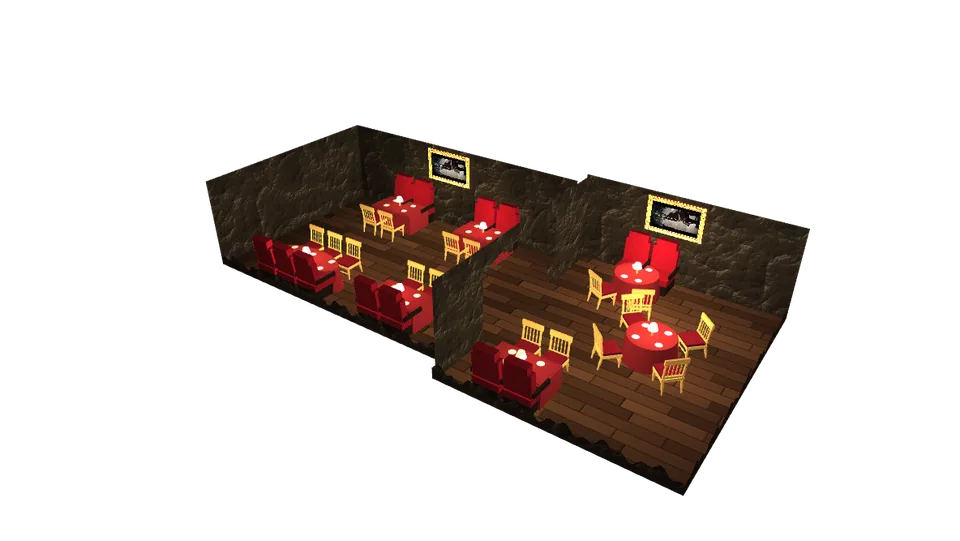
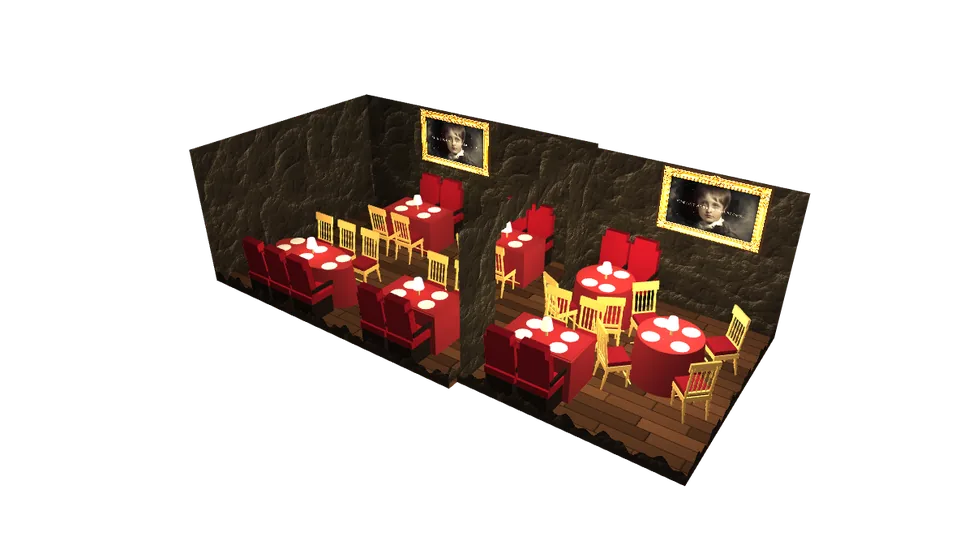
Grotte Napoléon : la salle 3D remise à l'échelle en mètres, écrans de 1,44 m qui dominent les murs
Claude-Session: https://claude.ai/code/session_01Tg9JuR8WfKBoHUYi3GMpp1

Changed region(s): [[0.1875, 0.1774, 0.8438, 0.9168]]

diff --git a/clients/la-grotte-napoleon/salle.js b/clients/la-grotte-napoleon/salle.js
@@ -83,43 +83,44 @@
     return forme(pos, uv, nor, idx);
   };
 
-  /* ---------- le plan de la salle (une unité ≈ 1,6 m), d'après les photos et la vidéo de l'utilisateur ----------
+  /* ---------- le plan de la salle (une unité = un mètre), d'après les photos et la vidéo de l'utilisateur ----------
      la grande salle (ZA..ZE) : tables collées aux deux murs avec une rangée de fauteuils de cinéma contre le mur et des chaises
      dorées côté allée, un écran à cadre doré sur chaque mur, le rideau noir au bout (la cuisine est derrière) ;
      une arcade de roche large et basse ; la salle du fond (ZF..ZA, plus large) : tables rondes, trois écrans (gauche, fond, droite) */
-  const X = 2.0, X2 = 2.4, ZE = 5.6, ZA = 0, ZF = -4.0, HM = 1.75, ARC = 1.15, LINTEAU = 1.3; /* murs ≈ 2,8 m, arcade ≈ 2,1 m : le plafond de la vraie salle est bas */
-  const HT = .44;
-  /* les écrans : [centre, normale, largeur] ; tous les cinq sont des téléviseurs OLED de 165 cm (16/9 : 1,44 m × 0,81 m, soit 0,9 × 0,506 à
-     l'échelle), accrochés haut (centre à 1,32, bas de l'image à 1,7 m, haut à 2,5 m) : personne, assis, ne gêne la vue. Le cadre doré (moulures : 9,9 % sur
+  /* UNE UNITÉ = UN MÈTRE (depuis le 2 novembre 2026). Grande salle 4,4 × 5,6 m, salle du fond 4 × 3,6 m, plafond à 2,6 m, arcade de 2,2 m de large sous un linteau à 2,1 m. */
+  const X = 2.2, X2 = 2.0, ZE = 5.6, ZA = 0, ZF = -3.6, HM = 2.6, ARC = 1.1, LINTEAU = 2.1;
+  const HT = .75; /* hauteur des tables */
+  /* les écrans : [centre, normale, largeur] ; tous les cinq sont des téléviseurs OLED de 165 cm (16/9 : 1,44 m × 0,81 m), accrochés haut (centre à 2 m) : personne, assis, ne gêne la vue. Le cadre doré (moulures : 9,9 % sur
      les côtés, 14,8 % en haut et en bas, dessinées pour une ouverture 2/1) s'étire un peu en hauteur pour suivre le 16/9. */
-  const ECRAN_L = .9, ECRAN_Y = 1.32;
-  const ECRANS = [[[-X + .02, ECRAN_Y, 3.0], [1, 0, 0], ECRAN_L], [[X - .02, ECRAN_Y, 3.0], [-1, 0, 0], ECRAN_L],
-    [[-X2 + .02, ECRAN_Y, -1.8], [1, 0, 0], ECRAN_L], [[-.7, ECRAN_Y, ZF + .02], [0, 0, 1], ECRAN_L], [[X2 - .02, ECRAN_Y, -2.3], [-1, 0, 0], ECRAN_L]];
+  const ECRAN_L = 1.44, ECRAN_Y = 2.0; /* 165 cm de diagonale : 1,44 × 0,81 m ; bas de l'image à 1,6 m, haut à 2,4 m, juste sous le plafond */
+  const ECRANS = [[[-X + .02, ECRAN_Y, 3.2], [1, 0, 0], ECRAN_L], [[X - .02, ECRAN_Y, 3.2], [-1, 0, 0], ECRAN_L],
+    [[-X2 + .02, ECRAN_Y, -2.2], [1, 0, 0], ECRAN_L], [[0, ECRAN_Y, ZF + .02], [0, 0, 1], ECRAN_L], [[X2 - .02, ECRAN_Y, -2.2], [-1, 0, 0], ECRAN_L]];
   const N = ECRANS.length, CG = .099, CH = .148;
   /* les tables collées au mur [x, z, demi-largeur, demi-longueur] (l'allée est du côté du centre), et les tables rondes [x, z, rayon] */
   /* 30 places en tout, comme le vrai restaurant : 18 dans la grande salle (2 + 2 tables collées au mur), 12 dans la salle du fond (2 rondes de 4, une table de 4) */
-  const LONGUES = [[-X + .62, 1.7, .28, .5], [-X + .62, 3.9, .28, .5], [X - .62, 1.5, .28, .5], [X - .62, 3.8, .28, .75],
-    [X2 - .62, -1.2, .28, .5]];
-  const RONDES = [[-X2 + .75, -1.5, .4, 1], [0, -2.5, .4]]; /* 4e valeur : côté libre (+1 : la table est contre le mur gauche, deux banquettes de cinéma côté mur, deux chaises côté salle) */ /* une contre le mur gauche (en face de la table collée au mur droit), l'autre au centre de la salle du fond */
+  /* depuis le mur : la banquette (50 cm), puis la table (70 cm de profondeur, 1,2 m de long pour 4, 1,8 m pour 6), puis les chaises */
+  const LONGUES = [[-X + .9, 1.3, .35, .6], [-X + .9, 3.5, .35, .6], [X - .9, 1.3, .35, .6], [X - .9, 3.8, .35, .9],
+    [X2 - .9, -1.0, .35, .6]];
+  const RONDES = [[-X2 + 1.05, -.95, .5, 1], [0, -2.5, .5]]; /* tables rondes d'un mètre */ /* 4e valeur : côté libre (+1 : la table est contre le mur gauche, deux banquettes de cinéma côté mur, deux chaises côté salle) */ /* une contre le mur gauche (en face de la table collée au mur droit), l'autre au centre de la salle du fond */
   const CHAISES = [], FAUTEUILS = [];
   /* les sièges de cinéma capitonnés rouges, collés au mur, seulement devant les tables collées au mur (demande de
      l'utilisateur : pas de sièges là où il n'y a pas de table) ; un siège tous les 0,54, deux par table de quatre, trois pour la table de six */
-  for (const [x, z, , hz] of LONGUES) { const s = x < 0 ? 1 : -1, n = Math.max(2, Math.round(hz * 2 / .54));
-    for (let k = 0; k < n; k++) FAUTEUILS.push([x - s * .32, z - (n - 1) * .27 + k * .54, s]); }
+  for (const [x, z, , hz] of LONGUES) { const s = x < 0 ? 1 : -1, n = Math.max(2, Math.round(hz * 2 / .56));
+    for (let k = 0; k < n; k++) FAUTEUILS.push([x - s * .6, z - (n - 1) * .28 + k * .56, s]); }
   for (const [x, z, hx, hz] of LONGUES) {
-    const n = Math.max(2, Math.round(hz * 2 / .52)), pas = hz * 2 / n, s = x < 0 ? 1 : -1;  /* s : vers l'allée */
-    for (let k = 0; k < n; k++) { const zz = z - hz + pas * (k + .5); CHAISES.push([x + s * (hx + .26), zz, s * Math.PI / 2]); }
+    const n = Math.max(2, Math.round(hz * 2 / .56)), pas = hz * 2 / n, s = x < 0 ? 1 : -1;  /* s : vers l'allée */
+    for (let k = 0; k < n; k++) { const zz = z - hz + pas * (k + .5); CHAISES.push([x + s * (hx + .3), zz, s * Math.PI / 2]); }
   }
   /* les chaises d'une table ronde : tout autour, ou deux du côté libre quand la table est contre un mur (et deux banquettes côté mur) */
   const anglesRonde = libre => (libre ? [60, 120].map(d => libre * d) : [45, 135, 225, 315]).map(d => d * Math.PI / 180);
   const anglesAssiettes = libre => (libre ? [60, 120, 240, 300].map(d => libre * d) : [45, 135, 225, 315]).map(d => d * Math.PI / 180);
-  for (const [x, z, r, libre] of RONDES) { for (const a of anglesRonde(libre)) CHAISES.push([x + Math.sin(a) * (r + .3), z + Math.cos(a) * (r + .3), a]);
-    if (libre) for (const dz of [-.27, .27]) FAUTEUILS.push([x - libre * .45, z + dz, libre]); }
+  for (const [x, z, r, libre] of RONDES) { for (const a of anglesRonde(libre)) CHAISES.push([x + Math.sin(a) * (r + .35), z + Math.cos(a) * (r + .35), a]);
+    if (libre) for (const dz of [-.28, .28]) FAUTEUILS.push([x - libre * .75, z + dz, libre]); }
   /* les assiettes de présentation argentées, une par place, posées sur la nappe */
   const ASSIETTES = [];
-  for (const [x, z, hx, hz] of LONGUES) { const n = Math.max(2, Math.round(hz * 2 / .52)), pas = hz * 2 / n;
-    for (let k = 0; k < n; k++) { const zz = z - hz + pas * (k + .5); ASSIETTES.push([x - hx + .13, zz], [x + hx - .13, zz]); } }
-  for (const [x, z, r, libre] of RONDES) for (const a of anglesAssiettes(libre)) ASSIETTES.push([x + Math.sin(a) * (r - .13), z + Math.cos(a) * (r - .13)]);
+  for (const [x, z, hx, hz] of LONGUES) { const n = Math.max(2, Math.round(hz * 2 / .56)), pas = hz * 2 / n;
+    for (let k = 0; k < n; k++) { const zz = z - hz + pas * (k + .5); ASSIETTES.push([x - hx + .18, zz], [x + hx - .18, zz]); } }
+  for (const [x, z, r, libre] of RONDES) for (const a of anglesAssiettes(libre)) ASSIETTES.push([x + Math.sin(a) * (r - .18), z + Math.cos(a) * (r - .18)]);
   /* les lumières : 5 écrans, une lampe par table, 4 appliques à côté des écrans */
   const LAMPES = [...LONGUES.map(([x, z]) => [x, z]), ...RONDES.map(([x, z]) => [x, z])];
   const APPLIQUES = []; /* plus d'appliques : rien sur les murs à part les écrans (demande de l'utilisateur, 2 novembre 2026) */
@@ -185,21 +186,21 @@
   const parois = murs(M);
   /* les tables : la nappe (dessus et pans) ; les rondes en tronc de cône évasé */
   const tables = (() => { const L = [];
-    for (const [x, z, hx, hz] of LONGUES) if (hz < .7) L.push([x, HT - .01, z, hx, .012, hz, 0], [x, HT / 2, z, hx + .03, HT / 2 - .01, hz + .03, 0]);
+    for (const [x, z, hx, hz] of LONGUES) if (hz < .8) L.push([x, HT - .01, z, hx, .012, hz, 0], [x, HT / 2, z, hx + .03, HT / 2 - .01, hz + .03, 0]);
     return paves(L); })();
   /* les tables rondes, et la grande table de droite qui est ovale sur la photo (nappe évasée jusqu'au sol) */
   const rondes = [...RONDES.map(([x, z, r]) => [disque(r, HT, 32, x, z), tronc(r * 1.14, r, .01, HT, 32, x, z)]),
-    ...LONGUES.filter(([, , , hz]) => hz >= .7).map(([x, z, hx, hz]) => [disque(hz, HT, 40, x, z, (hx + .06) / hz), tronc(hz * 1.1, hz, .01, HT, 40, x, z, 0, Math.PI * 2, 1, (hx + .06) / hz)])];
+    ...LONGUES.filter(([, , , hz]) => hz >= .8).map(([x, z, hx, hz]) => [disque(hz, HT, 40, x, z, (hx + .06) / hz), tronc(hz * 1.1, hz, .01, HT, 40, x, z, 0, Math.PI * 2, 1, (hx + .06) / hz)])];
   /* les fauteuils de cinéma contre le mur : assise, haut dossier incliné en velours rouge, accoudoirs et pied sombres ; plus ceux du fond */
   const FV = [], FS = [];
   const fauteuil = (x, z, s) => { const a = s > 0 ? Math.PI / 2 : -Math.PI / 2;
-    FV.push([x + s * .02, .28, z, .24, .06, .25, a], [x - s * .16, .52, z, .24, .26, .06, a, -.12], [x - s * .2, .83, z, .19, .08, .07, a, -.12]);
-    FS.push([x, .11, z, .22, .11, .23, a]);
-    for (const dz of [-.26, .26]) FS.push([x + s * .02, .41, z + dz, .02, .035, .22, a]); };
+    FV.push([x + s * .02, .42, z, .26, .06, .26, a], [x - s * .17, .74, z, .26, .3, .06, a, -.12], [x - s * .21, 1.1, z, .2, .08, .07, a, -.12]);
+    FS.push([x, .18, z, .24, .18, .24, a]);
+    for (const dz of [-.27, .27]) FS.push([x + s * .02, .6, z + dz, .02, .035, .23, a]); };
   for (const [x, z, s] of FAUTEUILS) fauteuil(x, z, s);
   const fauteuils = paves(FV), fauteuilsPied = paves(FS);
-  const assiettes = disques(ASSIETTES, .065, HT + .004);
-  const lampes = LAMPES.map(([x, z]) => [tronc(.022, .018, HT, HT + .12, 8, x, z), tronc(.085, .055, HT + .11, HT + .21, 16, x, z)]);
+  const assiettes = disques(ASSIETTES, .14, HT + .004); /* assiettes de présentation de 28 cm */
+  const lampes = LAMPES.map(([x, z]) => [tronc(.022, .018, HT, HT + .14, 8, x, z), tronc(.1, .065, HT + .13, HT + .3, 16, x, z)]);
   /* les chaises « Napoléon » (d'après la photo envoyée par l'utilisateur) : tout le bâti doré, pieds et barreaux tournés
      avec leurs bagues, pieds arrière qui partent en arrière, dossier à quatre barreaux sous un bandeau, assise de velours rouge.
      Chaque pièce tournée est un profil (rayon, hauteur de 0 à 1) qu'on fait tourner autour de son axe. */
@@ -219,11 +220,13 @@
   const MONTANT = [[.02, 0], [.016, .1], [.024, .2], [.017, .3], [.02, .55], [.015, .7], [.022, .8], [.016, .9], [.019, 1]];
   const BARREAU = [[.006, 0], [.011, .12], [.006, .25], [.012, .45], [.006, .6], [.011, .78], [.006, .9], [.008, 1]];
   const TRAVERSE = [[.009, 0], [.011, .2], [.008, .35], [.016, .5], [.008, .65], [.011, .8], [.009, 1]];
-  const TOURS = [], DORE = [], ASSISE = [], RECUL = .14;
+  /* les cotes de la chaise sont écrites à l'ancienne échelle et un peu trop larges : KX agrandit en largeur et profondeur (41 cm de large),
+     KY en hauteur (assise à 44 cm, dossier à 1,04 m) */
+  const TOURS = [], DORE = [], ASSISE = [], RECUL = .14, KX = 1.15, KY = 1.6;
   for (const [cx, cz, a] of CHAISES) {
     const ca = Math.cos(a), sa = Math.sin(a), w = (lx, lz) => [cx + ca * lx + sa * lz, cz - sa * lx + ca * lz];
-    const tour = (prof, L, lx, ly, lz, inc = 0, roll = 0) => { const [X2, Z2] = w(lx, lz); TOURS.push([prof, L, X2, ly, Z2, a, inc, roll]); };
-    const pave = (liste, lx, ly, lz, dx, dy, dz, inc = 0) => { const [X2, Z2] = w(lx, lz); liste.push([X2, ly, Z2, dx, dy, dz, a, inc]); };
+    const tour = (prof, L, lx, ly, lz, inc = 0, roll = 0) => { const [X2, Z2] = w(lx * KX, lz * KX); TOURS.push([prof.map(([r, h]) => [r * KX, h]), L * KY, X2, ly * KY, Z2, a, inc, roll]); };
+    const pave = (liste, lx, ly, lz, dx, dy, dz, inc = 0) => { const [X2, Z2] = w(lx * KX, lz * KX); liste.push([X2, ly * KY, Z2, dx * KX, dy * KY, dz * KX, a, inc]); };
     for (const u of [-.155, .155]) { tour(PIED, .245, u, 0, -.145); tour(PIED, .25, u, 0, .2, -.2); tour(MONTANT, .36, u, .245, .15, RECUL); }
     for (const u of [-.09, -.03, .03, .09]) tour(BARREAU, .25, u, .31, .15 + .07 * Math.tan(RECUL), RECUL);
     tour(TRAVERSE, .31, -.155, .1, -.145, 0, -Math.PI / 2);
@@ -231,7 +234,7 @@
     pave(ASSISE, 0, .277, -.008, .168, .028, .158);
   }
   const chaises = tournees(TOURS), dorures = paves(DORE), velours = paves(ASSISE);
-  const poussiere = tampon(new Float32Array([...Array(320)].flatMap(() => { const z = ZF + .3 + Math.random() * (ZE - ZF - .6); return [(Math.random() * 2 - 1) * ((z > ZA ? X : X2) - .2), .3 + Math.random() * 1.6, z]; })));
+  const poussiere = tampon(new Float32Array([...Array(320)].flatMap(() => { const z = ZF + .3 + Math.random() * (ZE - ZF - .6); return [(Math.random() * 2 - 1) * ((z > ZA ? X : X2) - .2), .3 + Math.random() * 2.0, z]; })));
 
   /* ---------- les textures ---------- */
   const texFilm = gl.createTexture(), texRoche = gl.createTexture();
@@ -269,7 +272,7 @@
     else gl.drawArrays(gl.POINTS, 0, g.n);
   };
   const VIDE = { tex: 0, coupe: 0, brille: 0, dos: 0, orne: 0, bois: 0 };
-  const CENTRE = [0, .5, .8];
+  const CENTRE = [0, .7, 1.0];
   let theta = .5, vitesse = 0, actif = false, enCours = false, dernier = 0, t = 0;
   const taille = () => {
     const dpr = Math.min(devicePixelRatio || 1, innerWidth < 760 ? 1.5 : 2), r = boite.getBoundingClientRect();
@@ -283,14 +286,14 @@
     theta += (.05 + vitesse) * dt; vitesse *= Math.pow(.02, dt);
     const dpr = taille(), portrait = toile.width / toile.height < 1;
     /* la galerie est longue : la caméra s'éloigne quand elle la voit de côté, se rapproche quand elle la voit dans l'axe */
-    const loin = (portrait ? 8.2 : 9.2) + Math.abs(Math.sin(theta)) * (portrait ? .8 : 2.0), h = loin * .62 + Math.sin(t * .23) * .12;
+    const loin = (portrait ? 8.4 : 9.0) + Math.abs(Math.sin(theta)) * (portrait ? .8 : 2.0), h = loin * .62 + Math.sin(t * .23) * .12;
     const oeil = [CENTRE[0] + Math.sin(theta) * loin, h, CENTRE[2] + Math.cos(theta) * loin], V = regarde(oeil, CENTRE);
     if (source) { gl.bindTexture(gl.TEXTURE_2D, texFilm); gl.texImage2D(gl.TEXTURE_2D, 0, gl.RGB, gl.RGB, gl.UNSIGNED_BYTE, source); if (compte++ % 3 === 0) mesure(); }
     teinte = teinte.map((v, k) => v + (cible[k] - v) * Math.min(1, dt * 6));
     /* les lumières : les écrans (couleur du film), les lampes des tables et les appliques (vacillement) */
     const lp = new Float32Array(NL * 3), lc = new Float32Array(NL * 3);
     ECRANS.forEach(([c, nrm], i) => { lp.set([c[0] + nrm[0] * .45, c[1], c[2] + nrm[2] * .45], i * 3); lc.set(teinte.map(v => v * 1.7), i * 3); });
-    LAMPES.forEach(([x, z], i) => { const f = .9 + .07 * Math.sin(t * 7.1 + i * 2); lp.set([x, HT + .3, z], (N + i) * 3); lc.set(i % 3 === 1 ? [1.0 * f, 1.05 * f, .55 * f] : [1.3 * f, 1.1 * f, .7 * f], (N + i) * 3); });
+    LAMPES.forEach(([x, z], i) => { const f = .9 + .07 * Math.sin(t * 7.1 + i * 2); lp.set([x, HT + .35, z], (N + i) * 3); lc.set(i % 3 === 1 ? [1.0 * f, 1.05 * f, .55 * f] : [1.3 * f, 1.1 * f, .7 * f], (N + i) * 3); });
     gl.clearColor(0, 0, 0, 0); gl.enable(gl.DEPTH_TEST); gl.depthMask(true); gl.disable(gl.BLEND); gl.clear(gl.COLOR_BUFFER_BIT | gl.DEPTH_BUFFER_BIT);
     gl.activeTexture(gl.TEXTURE0); gl.bindTexture(gl.TEXTURE_2D, texRoche);
     const lum = (g, col, extra = {}) => { gl.useProgram(pLum); gl.uniform3fv(gl.getUniformLocation(pLum, "lp"), lp); gl.uniform3fv(gl.getUniformLocation(pLum, "lc"), lc); dessine(pLum, g, { ...VIDE, V, oeil, col, ...extra }); };

diff --git a/clients/la-grotte-napoleon/boutique.html b/clients/la-grotte-napoleon/boutique.html
@@ -272,6 +272,6 @@
 
 <script src="produits.js?v=20261102b"></script>
 <script src="textes.js?v=20261102b"></script>
-<script src="grotte.js?v=20261102p"></script>
+<script src="grotte.js?v=20261102q"></script>
 </body>
 </html>

diff --git a/clients/la-grotte-napoleon/panier.html b/clients/la-grotte-napoleon/panier.html
@@ -81,6 +81,6 @@
 
 <script src="produits.js?v=20261102b"></script>
 <script src="textes.js?v=20261102b"></script>
-<script src="grotte.js?v=20261102p"></script>
+<script src="grotte.js?v=20261102q"></script>
 </body>
 </html>

diff --git a/clients/la-grotte-napoleon/produit.html b/clients/la-grotte-napoleon/produit.html
@@ -91,6 +91,6 @@
 
 <script src="produits.js?v=20261102b"></script>
 <script src="textes.js?v=20261102b"></script>
-<script src="grotte.js?v=20261102p"></script>
+<script src="grotte.js?v=20261102q"></script>
 </body>
 </html>

diff --git a/clients/la-grotte-napoleon/reserver.html b/clients/la-grotte-napoleon/reserver.html
@@ -94,6 +94,6 @@
 </div>
 
 <script src="textes.js?v=20261102b"></script>
-<script src="grotte.js?v=20261102p"></script>
+<script src="grotte.js?v=20261102q"></script>
 </body>
 </html>

diff --git a/clients/la-grotte-napoleon/formules.html b/clients/la-grotte-napoleon/formules.html
@@ -147,6 +147,6 @@
 
 
 <script src="textes.js?v=20261102b"></script>
-<script src="grotte.js?v=20261102p"></script>
+<script src="grotte.js?v=20261102q"></script>
 </body>
 </html>

diff --git a/clients/la-grotte-napoleon/index.html b/clients/la-grotte-napoleon/index.html
@@ -205,6 +205,6 @@
 
 
 <script src="textes.js?v=20261102b"></script>
-<script src="grotte.js?v=20261102p"></script>
+<script src="grotte.js?v=20261102q"></script>
 </body>
 </html>

diff --git a/ETAT.md b/ETAT.md
@@ -22,7 +22,7 @@ Les pages du site sont à la racine (leur place donne leur adresse sur saitora.f
 
 - **13 démos** `demo-*.html`, chacune dans un genre différent (14 genres dans `commun/themes.json`, dessinés par `commun/themes.js`). La liste est dans `commun/demos.js` (partagée par l'accueil et `demos.html`) ; l'accueil n'en montre que trois (A Funtana, U Fucone, Atelier Bois Massif, liste `UNES`), avec « Voir les treize démos ».
 - **Sites clients** dans `clients/` (non indexés) :
-  - **La Grotte Napoléon** (`la-grotte-napoleon/`, site du père de l'utilisateur, **en ligne pour test** sur https://saitora.fr/clients/la-grotte-napoleon/ et en page privée Claude https://claude.ai/artifact/FUf2dVq3CJkFbwXnM9XknB, à republier après chaque changement). Accueil : Napoléon enfant qui devient l'Empereur (bouton « Découvrir »), séance, à table, enfance, film, formules en trois médaillons, avis, boutique, venir. Boutique avec la couronne de laurier, 20 souvenirs, fiches produits et panier (paiement pas encore branché). Réservation sur `reserver.html` avec un calendrier comme l'ancien site (places d'exemple). Six langues, la langue suit de page en page. Depuis le 31 octobre 2026 : page Formules avec les médaillons, frise des âges (9, 16, 24, 26, 30 et 35 ans, en très grand, qui comptent en arrivant) ; une lueur de chandelle et une carte interactive ont été essayées puis retirées ; nouvel enfant de l’ouverture calé au pixel sur l’Empereur. Du 1er au 2 novembre 2026 : menu réduit (Réserver, Boutique, Contact), page Réserver refaite (étapes I à IV, billet sur vieux papier avec cachet de cire), panier et fiches refaits, pied de page en 5 colonnes, l’Empereur reste en fond sur ordinateur ; section « La salle » en 3D (`salle.js`, WebGL écrit à la main) : maquette vue de dessus qu’on fait tourner, plan d’après les photos et la vidéo du restaurant (grande salle avec tables le long des murs, fauteuils de cinéma côté mur et chaises Napoléon dorées côté allée, arcade de roche, salle du fond avec deux tables rondes et un mannequin), 5 écrans à cadre doré qui passent le film (`salle.mp4`), **30 places exactement** (18 + 12) ; le 2 novembre, rendu rapproché des photos (roche noire, table ovale, assiettes, lampes crème et vertes ; puis éclaircie, sans halos, la lumière des écrans suit le film, et murs nus : plus de mannequin, d’appliques ni de rideaux ; disposition revue d’après la vidéo et les photos de l’utilisateur, gardées dans `images/salle-photo-*.webp` et `images/salle-visite.mp4` : parquet sombre, rangées de sièges de cinéma rouges le long des murs). **Tout le détail, les essais refusés et ce qui reste à valider avec le père : `clients/la-grotte-napoleon/NOTES.md`.**
+  - **La Grotte Napoléon** (`la-grotte-napoleon/`, site du père de l'utilisateur, **en ligne pour test** sur https://saitora.fr/clients/la-grotte-napoleon/ et en page privée Claude https://claude.ai/artifact/FUf2dVq3CJkFbwXnM9XknB, à republier après chaque changement). Accueil : Napoléon enfant qui devient l'Empereur (bouton « Découvrir »), séance, à table, enfance, film, formules en trois médaillons, avis, boutique, venir. Boutique avec la couronne de laurier, 20 souvenirs, fiches produits et panier (paiement pas encore branché). Réservation sur `reserver.html` avec un calendrier comme l'ancien site (places d'exemple). Six langues, la langue suit de page en page. Depuis le 31 octobre 2026 : page Formules avec les médaillons, frise des âges (9, 16, 24, 26, 30 et 35 ans, en très grand, qui comptent en arrivant) ; une lueur de chandelle et une carte interactive ont été essayées puis retirées ; nouvel enfant de l’ouverture calé au pixel sur l’Empereur. Du 1er au 2 novembre 2026 : menu réduit (Réserver, Boutique, Contact), page Réserver refaite (étapes I à IV, billet sur vieux papier avec cachet de cire), panier et fiches refaits, pied de page en 5 colonnes, l’Empereur reste en fond sur ordinateur ; section « La salle » en 3D (`salle.js`, WebGL écrit à la main) : maquette vue de dessus qu’on fait tourner, plan d’après les photos et la vidéo du restaurant (grande salle avec tables le long des murs, fauteuils de cinéma côté mur et chaises Napoléon dorées côté allée, arcade de roche, salle du fond avec deux tables rondes et un mannequin), 5 écrans à cadre doré qui passent le film (`salle.mp4`), **30 places exactement** (18 + 12) ; le 2 novembre, rendu rapproché des photos (roche noire, table ovale, assiettes, lampes crème et vertes ; puis éclaircie, sans halos, la lumière des écrans suit le film, et murs nus : plus de mannequin, d’appliques ni de rideaux ; disposition revue d’après la vidéo et les photos de l’utilisateur, gardées dans `images/salle-photo-*.webp` et `images/salle-visite.mp4` : parquet sombre, banquettes de cinéma derrière les tables collées au mur ; le 2 novembre au soir, tout est remis **à l’échelle en mètres** : écrans de 1,44 m sur des murs de 4 m, plafond à 2,6 m). **Tout le détail, les essais refusés et ce qui reste à valider avec le père : `clients/la-grotte-napoleon/NOTES.md`.**
   - **Mademoiselle Charlotte** (`mademoiselle-charlotte/`, **en ligne** sur https://saitora.fr/clients/mademoiselle-charlotte/) : créations brodées pour bébé, fiches produits, note de commande à coller sur sa boutique SumUp. Détail : `clients/mademoiselle-charlotte/NOTES.md`.
   - **Bobyshop** (`bobyshop/`, un ami qui a testé le devis) et **Vitrier Prince** (`vitrier-prince/`).
 - **Saitorapp** (`saitorapp/`, non indexée, **en ligne pour test** sur https://saitora.fr/saitorapp/) : une appli par site, faite pour son métier (boutique, institut / coiffeur, hébergement), que le commerçant installe sur son téléphone. Style des applis Fuse et Ro (Mobbin) ; le style Fitness d'Apple a été refusé. Fabriquée par `python3 outils/saitorapp.py` depuis `saitorapp/sites.json`. Démos : Mademoiselle Charlotte, A Funtana, U Fucone ; données dans le navigateur. Prochaine étape : Supabase (compte à créer par l'utilisateur), connexion par e-mail, notifications. Détail : `saitorapp/LISEZMOI.md`.

diff --git a/clients/la-grotte-napoleon/NOTES.md b/clients/la-grotte-napoleon/NOTES.md
@@ -84,3 +84,4 @@ Tout ce qui a été fait, décidé ou refusé sur ce site (repris de `ETAT.md` l
 - **Chaises hors du mur (2 novembre 2026, signalé par l’utilisateur : « 2 chaises mangent le mur »)** : une table ronde contre un mur a maintenant ses quatre chaises du côté libre (`RONDES`, 4e valeur = côté libre ; angles 20°, 60°, 120°, 160° au lieu de 45° tout autour ; les assiettes suivent). Image de secours refaite. Pages en `grotte.js?v=20261102n`.
 - **Banquettes aussi pour la table ronde du mur gauche (2 novembre 2026, demande de l’utilisateur, « pour la symétrie »)** : la table ronde collée au mur gauche a deux banquettes de cinéma contre le mur et deux chaises dorées côté salle (angles 60° et 120°), comme la table collée au mur droit ; assiettes aux quatre places. Image de secours refaite. Pages en `grotte.js?v=20261102o`.
 - **Cinq écrans identiques de 165 cm, accrochés haut (2 novembre 2026, précision de l’utilisateur : « tous les écrans ont la même taille, des 165 cm OLED, plus haut, personne n’est gêné par les gens assis »)** : dans `salle.js`, `ECRAN_L = 0,9` (1,44 m) en 16/9 (0,506 de haut, le film n’est plus rogné en 2/1 ; le cadre doré, dessiné pour une ouverture 2/1, s’étire un peu en hauteur), `ECRAN_Y = 1,32` (bas de l’image à 1,7 m, haut à 2,5 m). Pour que les proportions soient celles de la vraie salle au plafond bas, les murs passent de 2,4 à 1,75 (≈ 2,8 m) et le linteau de l’arcade de 1,5 à 1,3 (≈ 2,1 m). Image de secours refaite. Pages en `grotte.js?v=20261102p`.
+- **La maquette remise à l’échelle, en mètres (2 novembre 2026, remarque de l’utilisateur : « les écrans sont bien trop petits, dans la petite pièce du fond ils prennent 80 % du mur »)** : la salle modélisée était bien plus grande que la vraie (salle du fond de 7,7 m de large). `salle.js` est maintenant **en mètres (une unité = un mètre)** : grande salle 4,4 × 5,6 m, salle du fond 4 × 3,6 m, plafond 2,6 m, arcade 2,2 m de large sous un linteau à 2,1 m ; écrans de 1,44 × 0,81 m (165 cm) centrés à 2 m ; tables de 0,70 × 1,20 m (1,80 m pour six), rondes d’un mètre, hauteur 0,75 m ; banquettes de 55 cm (assise à 45 cm, dossier à 1,05 m) ; chaises de 41 cm (assise 44 cm, dossier 1,04 m : leurs cotes, écrites à l’ancienne échelle, sont multipliées par `KX` = 1,15 en largeur et `KY` = 1,6 en hauteur) ; assiettes de 28 cm ; depuis le mur : banquette, table, chaises. Disposition inchangée (30 places). Caméra recentrée. Image de secours refaite. Pages en `grotte.js?v=20261102q`.
